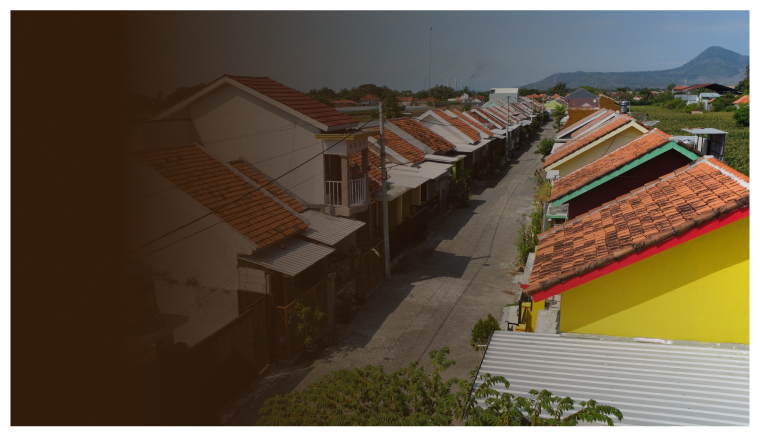
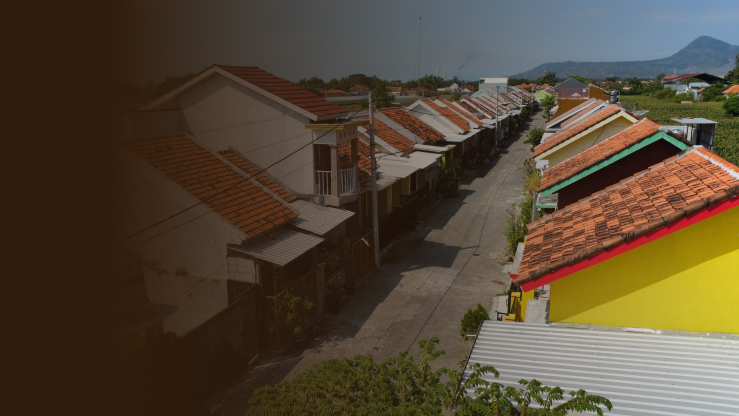
feat: responsive branding

diff --git a/src/views/Faq.tsx b/src/views/Faq.tsx
@@ -1,17 +1,63 @@
+import Link from "next/link";
+
 import { Qna } from "@/components";
 import { faqs } from "@/constants";
 
 const Faq = () => {
   return (
-    <section className="flex flex-col items-center justify-center w-full h-full py-20 space-y-5 gradient-product">
-      <h2 className="font-lato font-bold text-[48px] text-shadow text-center">
-        Pertanyaan yang Sering Diajukan
-      </h2>
+    <section className="flex flex-col items-center justify-center w-full h-full py-4 space-y-5 md:py-6 lg:py-10 px-14 gradient-product">
+      <div className="flex flex-col items-center justify-center w-full h-full max-w-[1440px]">
+        <h2 className="font-lato font-bold text-3xl md:text-4xl lg:text-[48px] text-shadow text-center">
+          Pertanyaan yang Sering Diajukan
+        </h2>
 
-      <div className="flex flex-col h-full w-full max-w-[876px] space-y-5 items-center justify-center">
-        {faqs.map((item, index) => (
-          <Qna key={index} question={item.question} answer={item.answer} />
-        ))}
+        <div className="flex flex-col items-center justify-center w-full h-full space-y-5">
+          {faqs.map((item, index) => (
+            <Qna key={index} question={item.question} answer={item.answer} />
+          ))}
+
+          <div className="bg-transparent collapse collapse-arrow text-shadow">
+            <input type="checkbox" />
+            <div className="collapse-title">
+              <p className="text-xl font-normal md:text-2xl font-lato">
+                Bank apa saja yang berkerja sama dengan Karya Cipta Sakinah?
+              </p>
+            </div>
+            <div className="collapse-content">
+              <p className="text-base font-normal font-lato md:text-lg">
+                Bank yang sudah berkerja sama dengan Karya Cipta Sakinah adalah{" "}
+                <span className="font-bold">BCA</span>,{" "}
+                <span className="font-bold">Mandiri</span>,{" "}
+                <span className="font-bold">BNI</span>,{" "}
+                <span className="font-bold">CIMB Niaga</span>, dan{" "}
+                <span className="font-bold">DANAMON</span>.
+              </p>
+            </div>
+
+            <div className="mx-4 border-b-2 border-shadow" />
+          </div>
+
+          <div className="bg-transparent collapse collapse-arrow text-shadow">
+            <input type="checkbox" />
+            <div className="collapse-title">
+              <p className="text-xl font-normal md:text-2xl font-lato">
+                Apa ada promo yang sedang berlangsung di Karya Cipta Sakinah?
+              </p>
+            </div>
+            <div className="collapse-content">
+              <p className="text-base font-normal font-lato md:text-lg">
+                Untuk melihat promo yang sedang berlangsung, Anda bisa
+                mengunjungi halam promo{" "}
+                <Link href="/promos" className="font-bold">
+                  di sini
+                </Link>
+                .
+              </p>
+            </div>
+
+            <div className="mx-4 border-b-2 border-shadow" />
+          </div>
+        </div>
       </div>
     </section>
   );

diff --git a/src/views/Branding.tsx b/src/views/Branding.tsx
@@ -5,28 +5,28 @@ import { whatsapp } from "@/constants";
 
 const Branding = () => {
   return (
-    <section className="flex items-center justify-center w-full h-full max-h-[500px] pt-10 pl-10 bg-furniture text-snow">
-      <div className="flex flex-row items-center max-w-[1440px] justify-between w-full h-full">
-        <div className="flex flex-col items-start justify-start w-full h-full pl-10 space-y-5">
-          <h2 className="font-lato font-bold text-[48px]">
+    <section className="flex items-center justify-center w-full h-full bg-furniture text-snow">
+      <div className="flex flex-col md:flex-row items-center max-w-[1440px] justify-between w-full h-full">
+        <div className="flex flex-col items-start justify-start w-full h-full py-10 space-y-5 bg-center bg-cover px-14 bg-branding lg:bg-none">
+          <h2 className="text-3xl font-bold md:text-4xl font-lato">
             Siap untuk meningkatkan kualitas hidup Anda?
           </h2>
-          <p className="font-lato font-medium text-[24px]">
+          <p className="text-lg font-medium font-lato md:text-xl">
             Jangan sia-siakan momen ini. Hubungi kami sekarang dan mari wujudkan
             rumah impian Anda.
           </p>
-          <Link href={whatsapp}  className="py-[20px] px-[16px] bg-orange rounded-[5px] font-montserrat font-semibold text-[18px] hover:bg-orange-2 duration-150 transition-all ease-in-out cursor-pointer">
+          <Link href={whatsapp}  className="py-[20px] px-[16px] bg-orange rounded-[5px] font-montserrat font-semibold text-[16px] md:text-[20px] lg:text-[24px] hover:bg-orange-2 duration-150 transition-all ease-in-out cursor-pointer">
             Hubungi Kami
           </Link>
         </div>
 
-        <div className="relative w-full h-full min-h-[412px] max-h-[500px] items-center justify-center">
+        <div className="relative items-center justify-center hidden w-full h-full lg:flex unset-img">
           <Image
-            src={"/Image-3.png"}
+            src={"/images/branding-3.jpg"}
             alt="Branding Perumahan Sakinah Residence"
             fill={true}
             sizes="(max-width: 768px) 100vw, (max-width: 1200px) 50vw, 33vw"
-            className="object-cover object-center w-full h-full"
+            className="object-cover object-center w-full h-full custom-img"
           />
         </div>
       </div>

diff --git a/src/constants/index.ts b/src/constants/index.ts
@@ -107,13 +107,13 @@ export const products = [
     },
     {
         title: 'Griya Mega Sakinah',
-        description: 'Perumahan kami menawarkan spesifikasi yang menakjubkan untuk menciptakan lingkungan yang asri dan nyaman bagi para penghuninya.',
+        description: 'Menghadirkan hunian dengan rumah sehat, speck hebat, dan harga hemat serta menjaga kualitas bangunan yang dapat diandalkan',
         image: '/images/product-2.jpg',
         href: '/products/griya-mega-sakinah'
     },
     {
         title: 'Mutiara Sakinah',
-        description: 'Perumahan kami menawarkan spesifikasi yang menakjubkan untuk menciptakan lingkungan yang asri dan nyaman bagi para penghuninya.',
+        description: 'Mengembangkan hunian perumahan dengan rumah sehat, speck hebat, dan harga hemat. Sehingga terwujud pemukiman yang aman dan asri.',
         image: '/images/product-3.jpg',
         href: '/products/mutiara-sakinah'
     }
@@ -137,14 +137,14 @@ export const faqs: QnaProps[] = [
         question: "Metode pambayaran yang bisa dilakukan di Karya Cipta Sakinah?",
         answer: "Karya Cipta Sakinah Paiton menyediakan beberapa metode pembayaran yang bisa dijadikan opsi saat membeli rumah. Diantaranya adalah cash keras, inhouse atau lewat skema cicilan kredit pembiayaan rumah (KPR).",
     },
-    {
-        question: "Bank apa saja yang berkerja sama dengan Karya Cipta Sakinah?",
-        answer: "Bank yang sudah berkerja sama dengan Karya Cipta Sakinah adalah BCA, Mandiri, BNI, CIMB Niaga, dan DANAMON."
-    },
-    {
-        question: "Apa ada promo yang sedang berlangsung di Karya Cipta Sakinah?",
-        answer: "Untuk melihat promo yang sedang berlangsung, Anda bisa mengunjungi halam promo di sini."
-    }
+    // {
+    //     question: "Bank apa saja yang berkerja sama dengan Karya Cipta Sakinah?",
+    //     answer: "Bank yang sudah berkerja sama dengan Karya Cipta Sakinah adalah BCA, Mandiri, BNI, CIMB Niaga, dan DANAMON."
+    // },
+    // {
+    //     question: "Apa ada promo yang sedang berlangsung di Karya Cipta Sakinah?",
+    //     answer: "Untuk melihat promo yang sedang berlangsung, Anda bisa mengunjungi halam promo di sini."
+    // }
 ]
 
 export const facilities = [

diff --git a/src/components/Qna.tsx b/src/components/Qna.tsx
@@ -5,17 +5,17 @@ const Qna = ({ question, answer }: QnaProps) => {
     <div className="bg-transparent collapse collapse-arrow text-shadow">
       <input type="checkbox" /> 
       <div className="collapse-title">
-        <p className="font-lato font-medium text-[28px]">
+        <p className="text-xl font-normal md:text-2xl font-lato">
           {question}
         </p>
       </div>
       <div className="collapse-content">
-        <p className="font-lato font-normal text-[20px]">
+        <p className="text-base font-normal font-lato md:text-lg">
           {answer}
         </p>
       </div>
 
-      <div className="mx-5 border-b-2 border-shadow" />
+      <div className="mx-4 border-b-2 border-shadow" />
     </div>
   );
 };

diff --git a/src/components/Navbar.tsx b/src/components/Navbar.tsx
@@ -22,7 +22,7 @@ const Navbar = () => {
   const pathname = usePathname();
 
   return (
-    <header className="fixed top-0 z-10 flex items-center justify-center w-full drawer backdrop-blur-3xl bg-snow-3">
+    <header className="fixed top-0 z-10 flex items-center justify-center w-full drawer drawer-end backdrop-blur-3xl bg-snow-3">
       <input id="navbar-drawer" checked={isMenuOpen} onChange={handleMenuChange} type="checkbox" className="drawer-toggle" />
       <nav className="drawer-content flex flex-row items-center justify-between w-full max-w-[1440px] px-14">
         <Link href={"/"}>

diff --git a/tailwind.config.js b/tailwind.config.js
@@ -18,6 +18,7 @@ module.exports = {
         "product-1": 'url("/images/product-1.jpg")',
         "product-2": 'url("/images/product-2.jpg")',
         "product-3": 'url("/images/product-3.jpg")',
+        "branding": 'url("/images/branding-3.jpg")',
         "product-card": 'url("/Image-2.jpg")',
         "gradient-radial": "radial-gradient(var(--tw-gradient-stops))",
         "gradient-conic":

diff --git a/src/app/page.tsx b/src/app/page.tsx
@@ -69,7 +69,7 @@ export default function Home() {
       <Info />
       <Product />
       <Faq />
-      {/* <Branding /> */}
+      <Branding />
     </>
   );
 }
